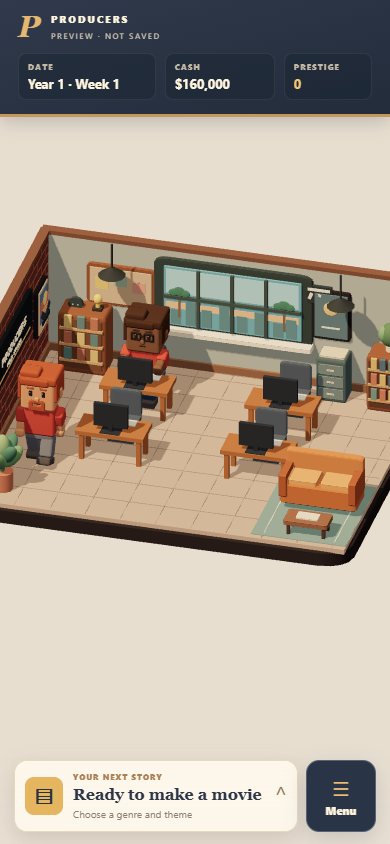
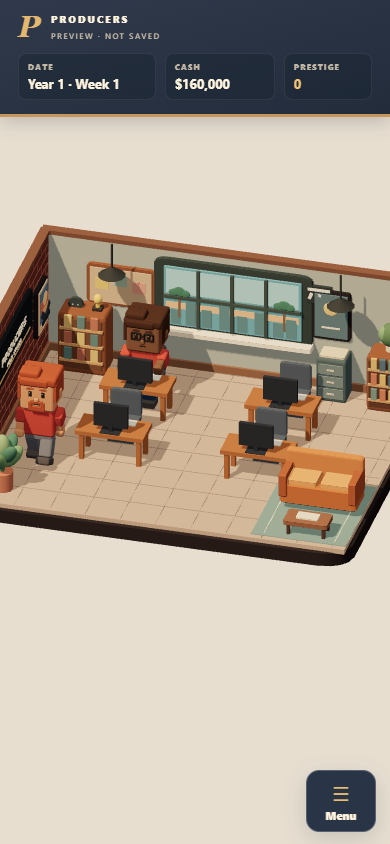
Simplify bottom controls and animate menu

Changed region(s): [[0.0308, 0.8934, 0.9846, 0.9858], [0.0308, 0.4313, 0.1538, 0.5545], [0.1538, 0.4313, 0.1846, 0.4621]]

diff --git a/src/game-preview/style.css b/src/game-preview/style.css
@@ -1,10 +1,10 @@
 :root{font-family:Inter,'Segoe UI',system-ui,sans-serif;color:#283344;background:#e7ded0;font-synthesis:none}*{box-sizing:border-box}html,body,#app{width:100%;height:100%;margin:0;overflow:hidden}button,select{font:inherit}button{cursor:pointer}button:focus-visible,select:focus-visible,#scene:focus-visible{outline:3px solid #f0b848;outline-offset:2px}button:disabled{opacity:.48;cursor:not-allowed}[hidden]{display:none!important}#scene{position:fixed;inset:0;touch-action:none;cursor:grab}#scene.dragging{cursor:grabbing}#scene:focus-visible{outline-offset:-4px}canvas{display:block;width:100%;height:100%}#loading{position:fixed;inset:0;display:grid;place-items:center;color:#786b5a;pointer-events:none;font-size:13px}
 .status-bar{position:fixed;z-index:2;top:0;left:0;right:0;padding:max(12px,env(safe-area-inset-top)) max(18px,env(safe-area-inset-right)) 14px max(18px,env(safe-area-inset-left));color:#fff5df;background:linear-gradient(165deg,#303a4c,#222c3b);border-bottom:3px solid #c6965a;box-shadow:0 5px 18px #202b3a35;pointer-events:none}.brand{display:flex;align-items:center;gap:9px;font-size:10px;letter-spacing:.20em;font-weight:800}.brand-mark{font:italic 700 31px Georgia,serif;line-height:.9;color:#e5b76f}.brand small{display:block;margin-top:4px;color:#c7bca8;font-size:8px;letter-spacing:.18em;font-weight:600}.status-grid{display:grid;grid-template-columns:1.25fr 1fr .8fr;gap:9px;margin-top:12px}.status-grid div{padding:7px 9px;border:1px solid #ffffff12;border-radius:8px;background:#19233175;min-width:0}.status-grid small,.status-grid strong{display:block;white-space:nowrap}.status-grid small{color:#c3b8a6;font-size:8px;font-weight:800;letter-spacing:.13em}.status-grid strong{font-size:clamp(11px,3.3vw,14px);margin-top:3px;overflow:hidden;text-overflow:ellipsis}.status-grid div:last-child strong{color:#efc372}
-.dock{position:fixed;z-index:2;bottom:0;left:0;right:0;display:flex;align-items:stretch;gap:8px;padding:10px max(14px,env(safe-area-inset-right)) max(12px,env(safe-area-inset-bottom)) max(14px,env(safe-area-inset-left));background:linear-gradient(0deg,#e9dfd3ed 38%,#e9dfd300);pointer-events:none}.dock button{pointer-events:auto}.project-card{min-width:0;flex:1;display:flex;align-items:center;gap:10px;text-align:left;border:1px solid #e8d8bf;border-radius:13px;background:#fff9edee;color:#2b3746;padding:10px;box-shadow:0 7px 22px #5443302b}.project-icon,.tile-icon,.feature-icon{display:grid;place-items:center;flex:none;border-radius:9px;background:#e5b55f;color:#263442;font-size:22px;font-weight:800}.project-icon{width:38px;height:38px}.project-copy{min-width:0;flex:1}.project-copy small,.project-copy strong,.project-copy>span{display:block;white-space:nowrap;overflow:hidden;text-overflow:ellipsis}.project-copy small{font-size:8px;font-weight:800;letter-spacing:.12em;color:#aa8057}.project-copy strong{font-family:Georgia,serif;font-size:16px;line-height:1.2;margin:3px 0;color:#2c3646}.project-copy>span{font-size:10px;color:#897e70}.chevron{font-size:22px;color:#8d7960}.menu-button{min-width:70px;border:1px solid #ffffff38;border-radius:13px;background:#293547;color:#fff3dc;padding:8px;font-size:11px;font-weight:800;box-shadow:0 7px 22px #2b37462b}.menu-button span{display:block;font-size:20px;color:#e8bc72;margin-bottom:2px}
-.scrim{position:fixed;z-index:3;inset:0;background:#17202b78}.sheet{position:fixed;z-index:4;left:50%;bottom:0;transform:translateX(-50%);width:min(100%,600px);max-height:min(78dvh,740px);display:flex;flex-direction:column;background:#fff9ef;color:#2b3544;border:1px solid #fff4e3;border-bottom:0;border-radius:21px 21px 0 0;animation:sheet-in .2s ease-out;box-shadow:0 -12px 45px #17212f40;padding:0 22px max(20px,env(safe-area-inset-bottom));overflow:hidden}.handle{width:38px;height:4px;border-radius:5px;background:#d8c7b1;margin:11px auto 6px;flex:none}.sheet-header{display:flex;align-items:center;gap:12px;padding:11px 0 15px;border-bottom:1px solid #eadfd0;flex:none}.sheet-header>div{flex:1}.eyebrow{margin:0 0 5px;color:#a87c56;font-size:9px;letter-spacing:.17em;font-weight:800}.sheet h1,.sheet h2{font-family:Georgia,serif;letter-spacing:-.035em;color:#303746}.sheet h1{font-size:28px;line-height:1;margin:0}.sheet h2{font-size:25px;margin:7px 0}.icon-button{border:1px solid #e7dac8;background:#fffdf7;color:#526071;border-radius:9px;width:44px;height:44px;font-size:25px;line-height:1}.icon-button.close{font-size:22px}.sheet-body{overflow:auto;overscroll-behavior:contain;padding:17px 1px 3px;min-height:0}.lead{color:#82786d;font-size:13px;line-height:1.45;margin:0 0 16px}.count{float:right;color:#aa8057;font-weight:800}.menu-grid,.choices,.people-list{display:grid;gap:9px}.menu-grid button{display:grid;grid-template-columns:44px 1fr 20px;grid-template-rows:auto auto;column-gap:11px;align-items:center;text-align:left;border:1px solid #eadfce;border-radius:11px;background:#f6efe5;padding:12px;color:#303a49}.tile-icon{width:42px;height:42px;grid-row:1/3;font-size:21px}.menu-grid strong{font-size:14px}.menu-grid small{grid-column:2;color:#938677;font-size:11px;margin-top:2px}.menu-grid b{grid-column:3;grid-row:1/3;color:#ae9274;font-size:22px;font-weight:400}.preview-note{font-size:10px;line-height:1.4;letter-spacing:.04em;color:#9c8a78;margin:18px 0 4px}.footnote{font-size:11px;line-height:1.5;color:#9b8d7f;margin:16px 0 3px}
+.dock{position:fixed;z-index:2;bottom:0;right:0;display:flex;padding:10px max(14px,env(safe-area-inset-right)) max(12px,env(safe-area-inset-bottom));pointer-events:none}.dock button{pointer-events:auto}.tile-icon,.feature-icon{display:grid;place-items:center;flex:none;border-radius:9px;background:#e5b55f;color:#263442;font-size:22px;font-weight:800}.menu-button{width:70px;min-height:62px;border:1px solid #ffffff38;border-radius:13px;background:#293547;color:#fff3dc;padding:8px;font-size:11px;font-weight:800;box-shadow:0 7px 22px #2b37462b}.menu-button span{display:block;font-size:20px;color:#e8bc72;margin-bottom:2px}
+.scrim{position:fixed;z-index:3;inset:0;background:#17202b78}.sheet{position:fixed;z-index:4;left:50%;bottom:0;transform:translateX(-50%);width:min(100%,600px);max-height:min(78dvh,740px);display:flex;flex-direction:column;background:#fff9ef;color:#2b3544;border:1px solid #fff4e3;border-bottom:0;border-radius:21px 21px 0 0;animation:sheet-in .38s cubic-bezier(.22,1,.36,1);box-shadow:0 -12px 45px #17212f40;padding:0 22px max(20px,env(safe-area-inset-bottom));overflow:hidden}.handle{width:38px;height:4px;border-radius:5px;background:#d8c7b1;margin:11px auto 6px;flex:none}.sheet-header{display:flex;align-items:center;gap:12px;padding:11px 0 15px;border-bottom:1px solid #eadfd0;flex:none}.sheet-header>div{flex:1}.eyebrow{margin:0 0 5px;color:#a87c56;font-size:9px;letter-spacing:.17em;font-weight:800}.sheet h1,.sheet h2{font-family:Georgia,serif;letter-spacing:-.035em;color:#303746}.sheet h1{font-size:28px;line-height:1;margin:0}.sheet h2{font-size:25px;margin:7px 0}.icon-button{border:1px solid #e7dac8;background:#fffdf7;color:#526071;border-radius:9px;width:44px;height:44px;font-size:25px;line-height:1}.icon-button.close{font-size:22px}.sheet-body{overflow:auto;overscroll-behavior:contain;padding:17px 1px 3px;min-height:0}.lead{color:#82786d;font-size:13px;line-height:1.45;margin:0 0 16px}.count{float:right;color:#aa8057;font-weight:800}.menu-grid,.choices,.people-list{display:grid;gap:9px}.menu-grid button{display:grid;grid-template-columns:44px 1fr 20px;grid-template-rows:auto auto;column-gap:11px;align-items:center;text-align:left;border:1px solid #eadfce;border-radius:11px;background:#f6efe5;padding:12px;color:#303a49}.tile-icon{width:42px;height:42px;grid-row:1/3;font-size:21px}.menu-grid strong{font-size:14px}.menu-grid small{grid-column:2;color:#938677;font-size:11px;margin-top:2px}.menu-grid b{grid-column:3;grid-row:1/3;color:#ae9274;font-size:22px;font-weight:400}.preview-note{font-size:10px;line-height:1.4;letter-spacing:.04em;color:#9c8a78;margin:18px 0 4px}.footnote{font-size:11px;line-height:1.5;color:#9b8d7f;margin:16px 0 3px}
 .person{display:flex;gap:12px;align-items:flex-start;background:#f5ede2;border:1px solid #eadfce;border-radius:12px;padding:12px}.avatar{width:43px;height:43px;border-radius:10px;display:grid;place-items:center;background:#b6c8ac;color:#344d40;font:700 21px Georgia,serif;flex:none}.person-info{min-width:0;flex:1}.person-info>strong,.person-info>small{display:block}.person-info>strong{font-size:14px}.person-info>small{font-size:10px;color:#978778;margin-top:3px}.stats{display:grid;grid-template-columns:repeat(4,1fr);gap:3px;margin-top:11px}.stats span{font-size:9px;color:#8e8174}.stats b{display:block;color:#334052;font-size:12px;margin-top:2px}.feature-card{background:#e3e8d9;border:1px solid #d0ddc7;border-radius:13px;padding:17px;color:#586b59}.feature-card p:last-child{font-size:12px;margin:8px 0 0}.feature-icon{width:39px;height:39px;float:right;background:#a7be9d}.detail-row{display:flex;justify-content:space-between;padding:13px 2px;border-bottom:1px solid #ede3d5;font-size:12px}.detail-row span{color:#8e8174}.movie-title{font-size:25px!important;margin:0 0 7px!important}.progress{height:9px;border-radius:9px;background:#ddd2c2;overflow:hidden;margin:8px 0 18px}.progress span{display:block;height:100%;background:#79aa56;border-radius:9px}.primary,.secondary{min-height:44px;border-radius:9px;padding:10px 14px;font-size:12px;font-weight:800}.primary{width:100%;border:0;background:#dcb064;color:#293544}.secondary{border:1px solid #e2d5c4;background:#fffaf2;color:#70675e}.play-row{display:flex;align-items:end;gap:7px;flex-wrap:wrap}.play-row .primary{width:auto;flex:1}.play-row label{font-size:10px;color:#8d7f71}.play-row select,.field select{display:block;min-height:44px;border:1px solid #e0d4c5;border-radius:8px;background:#fffdf7;color:#344152;padding:9px;font-size:13px}.field{display:block;color:#756d64;font-size:11px;font-weight:700;margin:12px 0}.field select{width:100%;margin-top:6px}.latest{display:grid;gap:4px;background:#e9eee2;border-radius:10px;padding:12px;margin-bottom:17px}.latest small{font-size:9px;color:#78906e;font-weight:800;letter-spacing:.1em}.latest strong{font-family:Georgia,serif;font-size:17px}.latest span{font-size:11px;color:#7c8675}.choices button{display:flex;justify-content:space-between;align-items:center;text-align:left;border:1px solid #eadfce;border-radius:10px;background:#f6efe5;padding:13px;color:#303a49}.choices strong,.choices small{display:block}.choices strong{font-size:13px}.choices small{font-size:11px;color:#988777;margin-top:4px}.choices b{font-size:21px;color:#a68d71;font-weight:400}.score-grid{display:grid;grid-template-columns:1fr 1fr;gap:10px;margin:18px 0}.score-grid div{background:#f2eadf;border-radius:10px;padding:14px}.score-grid small,.score-grid strong{display:block}.score-grid small{font-size:9px;color:#9b8069;letter-spacing:.12em;font-weight:800}.score-grid strong{font:700 26px Georgia,serif;margin-top:5px}.score-grid em{font:11px system-ui;color:#a59785}#notice{position:fixed;z-index:5;top:calc(150px + env(safe-area-inset-top));left:50%;transform:translateX(-50%);max-width:90vw;background:#533b35;color:#fff4e6;border-radius:8px;padding:9px 13px;font-size:12px}
-@media(min-width:760px){.status-bar{padding-left:30px;padding-right:30px}.status-grid{max-width:600px}.dock{left:auto;right:24px;bottom:18px;width:440px;padding:0;background:none}.sheet{bottom:18px;border:1px solid #fff4e3;border-radius:20px;padding-bottom:22px}.scrim{background:#17202b55}}@media(max-height:650px){.status-bar{padding-top:max(7px,env(safe-area-inset-top));padding-bottom:8px}.status-grid{margin-top:7px}.brand-mark{font-size:24px}.sheet{max-height:84dvh}}
+@media(min-width:760px){.status-bar{padding-left:30px;padding-right:30px}.status-grid{max-width:600px}.dock{left:auto;right:24px;bottom:18px;width:auto;padding:0;background:none}.sheet{bottom:18px;border:1px solid #fff4e3;border-radius:20px;padding-bottom:22px}.scrim{background:#17202b55}}@media(max-height:650px){.status-bar{padding-top:max(7px,env(safe-area-inset-top));padding-bottom:8px}.status-grid{margin-top:7px}.brand-mark{font-size:24px}.sheet{max-height:84dvh}}
 
-@keyframes sheet-in{from{opacity:0;transform:translate(-50%,18px)}to{opacity:1;transform:translate(-50%,0)}}
+@keyframes sheet-in{from{opacity:.4;transform:translate(-50%,100%)}to{opacity:1;transform:translate(-50%,0)}}
 @media(prefers-reduced-motion:reduce){.sheet{animation:none}}
 .contracts{margin:18px 0 12px;border-top:1px solid #eadfce;padding-top:13px}.contracts summary{cursor:pointer;color:#53645a;font-size:12px;font-weight:800;min-height:36px}.contracts summary span{float:right;color:#9b8c79}.contracts .choices{margin-top:8px}.planning-wait{width:100%;margin-top:12px}

diff --git a/src/game-preview/main.ts b/src/game-preview/main.ts
@@ -9,7 +9,7 @@ const root=document.querySelector<HTMLDivElement>('#app')!;
 root.innerHTML=`<main id="scene" tabindex="0" aria-label="Studio scene. Drag to look around; use arrow keys when focused."></main><div id="loading" role="status">Preparing your studio…</div>
  <header class="status-bar"><div class="brand"><span class="brand-mark">P</span><span>PRODUCERS<small>PREVIEW · NOT SAVED</small></span></div><div class="status-grid"><div><small>DATE</small><strong id="date"></strong></div><div><small>CASH</small><strong id="cash"></strong></div><div><small>PRESTIGE</small><strong id="prestige"></strong></div></div></header>
  <div id="notice" role="status" aria-live="polite" hidden></div>
- <footer class="dock"><button id="project-card" class="project-card" type="button" aria-label="Open current project"><span class="project-icon" aria-hidden="true">▤</span><span class="project-copy"><small id="project-kicker"></small><strong id="project-title"></strong><span id="project-status"></span></span><span class="chevron" aria-hidden="true">⌃</span></button><button id="menu-button" class="menu-button" type="button" aria-expanded="false" aria-controls="sheet"><span aria-hidden="true">☰</span> Menu</button></footer>
+ <footer class="dock"><button id="menu-button" class="menu-button" type="button" aria-expanded="false" aria-controls="sheet"><span aria-hidden="true">☰</span> Menu</button></footer>
  <div id="scrim" class="scrim" hidden></div><section id="sheet" class="sheet" role="dialog" aria-modal="true" aria-labelledby="sheet-title" hidden><div class="handle" aria-hidden="true"></div><div class="sheet-header"><button id="back" class="icon-button" type="button" aria-label="Back to menu" hidden>‹</button><div><p class="eyebrow" id="sheet-kicker">YOUR STUDIO</p><h1 id="sheet-title">Menu</h1></div><button id="close" class="icon-button close" type="button" aria-label="Close menu">×</button></div><div id="sheet-body" class="sheet-body"></div></section>`;
 const $=<T extends HTMLElement>(q:string)=>root.querySelector<T>(q)!;
 const sceneHost=$<HTMLElement>('#scene'),sheet=$<HTMLElement>('#sheet'),scrim=$<HTMLElement>('#scrim'),sheetBody=$<HTMLElement>('#sheet-body');
@@ -31,7 +31,7 @@ function showNotice(text:string){const box=$<HTMLElement>('#notice');box.textCon
 function show(next:View){if(!view)lastFocus=document.activeElement instanceof HTMLElement?document.activeElement:null;view=next;sceneHost.inert=true;$<HTMLElement>('.dock').inert=true;sheet.hidden=false;scrim.hidden=false;$<HTMLButtonElement>('#menu-button').setAttribute('aria-expanded','true');renderSheet();$<HTMLButtonElement>('#close').focus()}
 function hide(){view=null;sheet.hidden=true;scrim.hidden=true;sceneHost.inert=false;$<HTMLElement>('.dock').inert=false;$<HTMLButtonElement>('#menu-button').setAttribute('aria-expanded','false');lastFocus?.focus()}
 function updateScene(){if(!scene)return;const count=Math.min(6,game.state.staff.length);if(count===sceneCount)return;sceneCount=count;scene.setSettings({...DEFAULTS,desks:Math.min(6,Math.max(1,game.state.maxStaff)),people:count})}
-function updateHUD(){const s=game.state,p=s.project,ch=game.choices,c=s.contract;$<HTMLElement>('#date').textContent=`Year ${Math.floor(s.week/52)+1} · Week ${s.week%52+1}`;$<HTMLElement>('#cash').textContent=money(s.cash);$<HTMLElement>('#prestige').textContent=s.prestige.toLocaleString('en-US');$<HTMLElement>('#project-kicker').textContent=isDecision()?'ACTION NEEDED':p?'NOW PRODUCING':c?'WORK FOR HIRE':'YOUR NEXT STORY';$<HTMLElement>('#project-title').textContent=p?.title??c?.name??(isDecision()?'A decision awaits':'Ready to make a movie');$<HTMLElement>('#project-status').textContent=isDecision()?`Tap to ${ch.phase==='casting'?'choose a star':ch.phase==='distribution'?'choose a distributor':'continue'}`:p?`${Math.floor(p.progress)}% complete · ${clock.playing?'In production':'Paused'}`:c?`${c.weeksWorked} / ${c.weeks} weeks · Tap to continue`:s.releases.length?`${s.releases.length} ${s.releases.length===1?'release':'releases'} in your library`:'Choose a genre and theme';updateScene()}
+function updateHUD(){const s=game.state;$<HTMLElement>('#date').textContent=`Year ${Math.floor(s.week/52)+1} · Week ${s.week%52+1}`;$<HTMLElement>('#cash').textContent=money(s.cash);$<HTMLElement>('#prestige').textContent=s.prestige.toLocaleString('en-US');updateScene()}
 function updateOpenSheet(){const s=game.state;
  if(view==='studio'){const cash=sheetBody.querySelector<HTMLElement>('[data-studio-cash]'),prestige=sheetBody.querySelector<HTMLElement>('[data-studio-prestige]');if(cash)cash.textContent=money(s.cash);if(prestige)prestige.textContent=s.prestige.toLocaleString('en-US')}
  if(view==='people'){for(const row of sheetBody.querySelectorAll<HTMLElement>('[data-staff-id]')){const person=s.staff.find(x=>x.id===row.dataset.staffId);if(!person)continue;const wage=row.querySelector<HTMLElement>('[data-wage]');if(wage)wage.textContent=`Weekly pay ${money(person.wage)}`;for(const k of ['plot','writing','filming','editing'] as const){const stat=row.querySelector<HTMLElement>(`[data-stat="${k}"]`);if(stat)stat.textContent=String(Math.round(person.stats[k]))}}}
@@ -52,7 +52,7 @@ function decisionText(d:Decision,ch:Choices):{title:string;detail:string;disable
  return {title:d.type==='continue_career'?'Keep running the studio':'Retire',detail:''};
 }
 function renderSheet(){if(!view)return;const s=game.state,p=s.project,ch=game.choices;$<HTMLElement>('#sheet-title').textContent=labels[view];$<HTMLElement>('#sheet-kicker').textContent=view==='decision'?'YOUR DECISION':view==='results'?'NOW SHOWING':'YOUR STUDIO';$<HTMLButtonElement>('#back').hidden=['menu','decision','results'].includes(view);
- if(view==='menu'){sheetBody.innerHTML=`<p class="lead">What would you like to work on?</p><div class="menu-grid"><button data-view="projects"><span class="tile-icon">▤</span><strong>Projects</strong><small>Productions & releases</small><b>›</b></button><button data-view="people"><span class="tile-icon">●</span><strong>People</strong><small>Meet your team</small><b>›</b></button><button data-view="studio"><span class="tile-icon">⌂</span><strong>Studio</strong><small>Your space & capacity</small><b>›</b></button></div><p class="preview-note">EARLY PREVIEW · Progress resets when you reload.</p>`;return}
+ if(view==='menu'){sheetBody.innerHTML=`<p class="lead">What would you like to work on?</p><div class="menu-grid"><button data-view="projects"><span class="tile-icon">▤</span><strong>Projects</strong><small>${isDecision()?'Decision needed':p?'Current production':'Productions & releases'}</small><b>›</b></button><button data-view="people"><span class="tile-icon">●</span><strong>People</strong><small>Meet your team</small><b>›</b></button><button data-view="studio"><span class="tile-icon">⌂</span><strong>Studio</strong><small>Your space & capacity</small><b>›</b></button></div><p class="preview-note">EARLY PREVIEW · Progress resets when you reload.</p>`;return}
  if(view==='people'){sheetBody.innerHTML=`<p class="lead">Your crew <span class="count">${s.staff.length} / ${s.maxStaff}</span></p><div class="people-list">${s.staff.map(person=>`<article class="person" data-staff-id="${esc(person.id)}"><div class="avatar">${esc(person.name.slice(0,1).toUpperCase())}</div><div class="person-info"><strong>${esc(person.name)}</strong><small data-wage>Weekly pay ${money(person.wage)}</small><div class="stats">${(['plot','writing','filming','editing'] as const).map(k=>`<span>${pretty(k)} <b data-stat="${k}">${Math.round(person.stats[k])}</b></span>`).join('')}</div></div></article>`).join('')}</div><p class="footnote">Hiring, training and portraits are coming in a later pass.</p>`;return}
  if(view==='studio'){sheetBody.innerHTML=`<div class="feature-card"><span class="feature-icon">⌂</span><p class="eyebrow">YOUR STUDIO</p><h2>A place for big stories.</h2><p>Your crew has <strong>${s.staff.length} of ${s.maxStaff} seats</strong> filled.</p></div><div class="detail-row"><span>Cash</span><strong data-studio-cash>${money(s.cash)}</strong></div><div class="detail-row"><span>Prestige</span><strong data-studio-prestige>${s.prestige.toLocaleString('en-US')}</strong></div><p class="footnote">Studio upgrades and expanding the room will be added in a later pass.</p>`;return}
  if(view==='decision'){const list=decisions();const title=ch.phase==='casting'?'Choose your star':ch.phase==='distribution'?'Choose a distributor':ch.phase==='marketing'?'Choose a campaign':ch.phase==='pitch'?'Choose an offer':'Your career';$<HTMLElement>('#sheet-title').textContent=title;sheetBody.innerHTML=`<p class="lead">${ch.phase==='distribution'?'Compare each offer for this production.':ch.phase==='casting'?'Who will lead this production?':'Choose how to continue.'}</p><div class="choices">${list.map((d,i)=>{const c=decisionText(d,ch);return `<button type="button" data-decision="${i}" ${c.disabled?'disabled':''}><span><strong>${esc(c.title)}</strong><small>${esc(c.detail)}${c.disabled?' · Not affordable':''}</small></span><b>›</b></button>`}).join('')||'<p>No available choices. Please reopen this decision.</p>'}</div>`;return}
@@ -67,7 +67,7 @@ function renderSheet(){if(!view)return;const s=game.state,p=s.project,ch=game.ch
  }
 }
 root.addEventListener('click',event=>{const el=(event.target as HTMLElement).closest<HTMLButtonElement>('button');if(!el)return;
- if(el.id==='menu-button'){show('menu');return}if(el.id==='close'){hide();return}if(el.id==='back'){show('menu');return}if(el.id==='project-card'){show(isDecision()?'decision':'projects');return}
+ if(el.id==='menu-button'){show('menu');return}if(el.id==='close'){hide();return}if(el.id==='back'){show('menu');return}
  if(el.dataset.view){show(el.dataset.view as View);return}if(el.dataset.contract!==undefined){const d=contractDecisions()[Number(el.dataset.contract)];if(d)clock.decide(d);return}if(el.dataset.decision!==undefined){const d=decisions()[Number(el.dataset.decision)];if(d)clock.decide(d);return}
  switch(el.dataset.action){case 'dismiss':hide();break;case 'decision':show('decision');break;case 'play':clock.playing?clock.pause():clock.play();break;case 'step':clock.step();break;case 'advance':{clock.decide({type:'wait'});if(view==='projects'&&game.choices.phase==='planning'){renderSheet();sheetBody.querySelector<HTMLButtonElement>('[data-action=advance]')?.focus()}else if(view==='projects'&&game.state.contract){renderSheet();sheetBody.querySelector<HTMLButtonElement>('[data-action=advance]')?.focus()}break}case 'start':{const plan=plans().find(x=>x.genre===selectedGenre&&x.theme===selectedTheme);if(plan){hide();clock.startMovie(plan)}break}}
 });

diff --git a/tests/game-preview/ui.test.ts b/tests/game-preview/ui.test.ts
@@ -5,11 +5,11 @@ afterEach(()=>{window.dispatchEvent(new PageTransitionEvent('pagehide',{persiste
 describe('portrait game preview',()=>{it('opens the bottom menu and runs a real movie through decisions to a release',async()=>{
  vi.useFakeTimers();document.body.innerHTML='<div id="app"></div>';await import('../../src/game-preview/main');await Promise.resolve();
  const el=<T extends HTMLElement>(q:string)=>document.querySelector<T>(q)!;
- expect(el('#cash').textContent).toBe('$160,000');expect(el('#date').textContent).toContain('Week 1');
+ expect(document.querySelector('#project-card')).toBeNull();expect(document.querySelectorAll('.dock button')).toHaveLength(1);expect(el('#cash').textContent).toBe('$160,000');expect(el('#date').textContent).toContain('Week 1');
  el<HTMLButtonElement>('#menu-button').click();expect(el<HTMLElement>('#sheet').hidden).toBe(false);el<HTMLButtonElement>('[data-view="people"]').click();expect(el('#sheet-body').textContent).toContain('Sam');expect(el('#sheet-body').textContent).toContain('Alex');el<HTMLButtonElement>('#back').click();el<HTMLButtonElement>('[data-view="projects"]').click();el<HTMLButtonElement>('[data-action="start"]').click();
- el<HTMLButtonElement>('#project-card').click();expect(el('#sheet-progress-value').textContent).toBe('0%');vi.advanceTimersByTime(1300);expect(el('#date').textContent).toContain('Week 2');expect(el('#sheet-progress-value').textContent).not.toBe('0%');
+ el<HTMLButtonElement>('#menu-button').click();el<HTMLButtonElement>('[data-view=projects]').click();expect(el('#sheet-progress-value').textContent).toBe('0%');vi.advanceTimersByTime(1300);expect(el('#date').textContent).toContain('Week 2');expect(el('#sheet-progress-value').textContent).not.toBe('0%');
  const play=el<HTMLButtonElement>('[data-action=play]');play.focus();window.dispatchEvent(new Event('blur'));expect(play.textContent).toBe('Play');expect(el<HTMLButtonElement>('[data-action=step]').disabled).toBe(false);play.click();expect(document.activeElement).toBe(play);
  el<HTMLButtonElement>('#close').click();el<HTMLButtonElement>('#menu-button').click();el<HTMLButtonElement>('[data-view=studio]').click();vi.advanceTimersByTime(1300*4);expect(el('[data-studio-cash]').textContent).toBe(el('#cash').textContent);el<HTMLButtonElement>('#back').click();el<HTMLButtonElement>('[data-view=people]').click();const beforeStats=[...document.querySelectorAll('[data-stat]')].map(e=>e.textContent).join(',');vi.advanceTimersByTime(1300*4);const afterStats=[...document.querySelectorAll('[data-stat]')].map(e=>e.textContent).join(',');expect(afterStats).not.toBe(beforeStats);el<HTMLButtonElement>('#close').click();
- vi.advanceTimersByTime(1300*20);expect(el('#sheet-title').textContent).toBe('Choose your star');el<HTMLButtonElement>('[data-decision]:not(:disabled)').click();vi.advanceTimersByTime(1300*20);expect(el('#sheet-title').textContent).toBe('Choose a distributor');el<HTMLButtonElement>('[data-decision]:not(:disabled)').click();vi.advanceTimersByTime(1300*20);expect(el('#sheet-title').textContent).toBe('Premiere');expect(el('#sheet-body').textContent).toContain('AUDIENCE');el<HTMLButtonElement>('[data-action="dismiss"]').click();expect(el<HTMLElement>('#sheet').hidden).toBe(true);
- el<HTMLButtonElement>('#project-card').click();expect(el('[data-action=advance]')).toBeTruthy();expect(el('[data-contract]')).toBeTruthy();el<HTMLButtonElement>('[data-contract]').click();expect(el('#sheet-body').textContent).toContain('WORK FOR HIRE');for(let i=0;i<20&&el('#sheet-body').textContent?.includes('WORK FOR HIRE');i++)el<HTMLButtonElement>('[data-action=advance]').click();expect(el('#sheet-body').textContent).not.toContain('WORK FOR HIRE');expect(el('#date').textContent).not.toContain('Week 31');
+ vi.advanceTimersByTime(1300*20);expect(el('#sheet-title').textContent).toBe('Choose your star');el<HTMLButtonElement>('#close').click();el<HTMLButtonElement>('#menu-button').click();expect(el('#sheet-body').textContent).toContain('Decision needed');el<HTMLButtonElement>('[data-view=projects]').click();el<HTMLButtonElement>('[data-action=decision]').click();expect(el('#sheet-title').textContent).toBe('Choose your star');el<HTMLButtonElement>('[data-decision]:not(:disabled)').click();vi.advanceTimersByTime(1300*20);expect(el('#sheet-title').textContent).toBe('Choose a distributor');el<HTMLButtonElement>('[data-decision]:not(:disabled)').click();vi.advanceTimersByTime(1300*20);expect(el('#sheet-title').textContent).toBe('Premiere');expect(el('#sheet-body').textContent).toContain('AUDIENCE');el<HTMLButtonElement>('[data-action="dismiss"]').click();expect(el<HTMLElement>('#sheet').hidden).toBe(true);
+ el<HTMLButtonElement>('#menu-button').click();el<HTMLButtonElement>('[data-view=projects]').click();expect(el('[data-action=advance]')).toBeTruthy();expect(el('[data-contract]')).toBeTruthy();el<HTMLButtonElement>('[data-contract]').click();expect(el('#sheet-body').textContent).toContain('WORK FOR HIRE');for(let i=0;i<20&&el('#sheet-body').textContent?.includes('WORK FOR HIRE');i++)el<HTMLButtonElement>('[data-action=advance]').click();expect(el('#sheet-body').textContent).not.toContain('WORK FOR HIRE');expect(el('#date').textContent).not.toContain('Week 31');
 })});

diff --git a/docs/game-preview.md b/docs/game-preview.md
@@ -2,7 +2,7 @@
 
 The early game preview is served at `/Producers/game/`. The visual scene lab remains at `/Producers/scene/`, the character lab at `/Producers/`, and the previous gameplay prototype at `/Producers/studio/`. Run `npm run dev:game-preview` locally.
 
-The top bar shows the existing simulation's date, cash and prestige. The bottom project card and Menu open a dismissible sheet. Projects lets the user pick an available new-movie genre and theme, play/pause or step production, choose a star and distributor when prompted, and see the release's audience and critic scores. Between productions, users can advance a week or take an available work-for-hire job; jobs advance one week at a time and use the existing simulation decisions. People shows the simulation's real staff and four stats; Studio shows cash, prestige, and current staff capacity. Menus and choices use the existing `PrototypeGame` and `ProductionClock`; no simulation rules are changed.
+The top bar shows the existing simulation's date, cash and prestige. The bottom Menu button opens a dismissible sheet with an upward animation (disabled for reduced-motion preferences). Projects and pending decisions are accessible through the menu. Projects lets the user pick an available new-movie genre and theme, play/pause or step production, choose a star and distributor when prompted, and see the release's audience and critic scores. Between productions, users can advance a week or take an available work-for-hire job; jobs advance one week at a time and use the existing simulation decisions. People shows the simulation's real staff and four stats; Studio shows cash, prestige, and current staff capacity. Menus and choices use the existing `PrototypeGame` and `ProductionClock`; no simulation rules are changed.
 
 This is an early preview: **progress is not saved and resets on reload**. Hiring, training, staff portraits, studio upgrades, expansion, full release details, and the remaining menus are not yet integrated in this screen. The initial staff members get stable generated appearances keyed to their IDs; their animations are illustrative rather than a complete representation of staff activities. The scene is currently limited to six visible desk/person slots, so it does not yet represent the planned eight-person studio. Existing simulation values, including costs, remain testing values where indicated in the design ledger.
 
